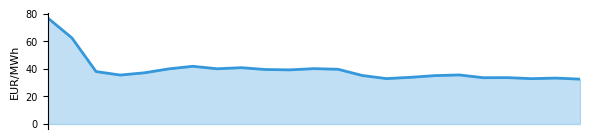
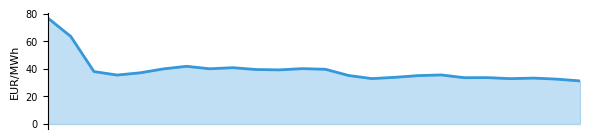
Update Gasspeicher-Report 2026-02-16 18:29

Changed region(s): [[0.1525, 0.4571, 1.0, 0.6], [0.122, 0.2857, 0.1525, 0.4571], [0.0915, 0.2, 0.122, 0.2571]]

diff --git a/index.html b/index.html
@@ -361,7 +361,7 @@ Berechnung auf Basis historischer Einspeiseraten 2012–2025. Vorgabe: EU-Verord
 <div class="card" style="grid-column: 1 / -1; margin-top: 1.5rem;">
 <h2 id="gasspeicher-tabelle">🏢 Gasspeicher Füllstand Tabelle – Betreiber & Speicher</h2>
 <div style="font-size: 0.75rem; color: #aaa; margin-bottom: 0.5rem;">
-24 Betreiber | Sortiert nach Kapazität | Hover für Speicher-Details
+25 Betreiber | Sortiert nach Kapazität | Hover für Speicher-Details
 </div>
 <div class="facility-matrix">
 <div class="facility-tile" style="background: rgba(243, 156, 18, 0.85);">
@@ -637,6 +637,19 @@ Kapazität: 2.0 TWh | Gespeichert: 0.5 TWh
 <div class="tile-bar"><div class="tile-bar-fill" style="width:26%"></div></div>
 <div class="tile-trend" style="color:#ccc">-0.92%/d</div>
 </div>
+<div class="facility-tile" style="background: rgba(241, 196, 15, 0.75);">
+<div class="tile-tooltip">
+<strong>Eneco Gasspeicher</strong><br>
+Füllstand: 44.6% | Trend: -0.10%/Tag<br>
+Kapazität: 1.4 TWh | Gespeichert: 0.6 TWh
+</div>
+<div class="trend-arrow" style="color:#e74c3c">▼</div>
+<div class="tile-name">Eneco Gasspeicher</div>
+<div class="tile-pct">45%</div>
+<div class="tile-capacity">1.4 TWh</div>
+<div class="tile-bar"><div class="tile-bar-fill" style="width:45%"></div></div>
+<div class="tile-trend" style="color:#ccc">-0.10%/d</div>
+</div>
 <div class="facility-tile" style="background: rgba(231, 76, 60, 0.85);">
 <div class="tile-tooltip">
 <strong>Enovos Storage</strong><br>
@@ -694,7 +707,7 @@ Kapazität: 0.6 TWh | Gespeichert: 0.3 TWh
 <!-- Europa-Link -->
 <div style="text-align: center; margin: 1rem 0;">
 <a href="europa.html" style="display: inline-block; padding: 0.75rem 2rem; background: linear-gradient(135deg, #2c3e6d, #1a5276); border: 1px solid rgba(79,195,247,0.3); border-radius: 10px; color: #fff; text-decoration: none; font-size: 1rem; font-weight: 600;">
-🇪🇺 Gasspeicher Füllstand Europa – Alle 21 Länder im Vergleich →
+🇪🇺 Gasspeicher Füllstand Europa – Alle 20 Länder im Vergleich →
 </a>
 </div>
 <!-- ============ ENERGIETRÄGER ============ -->
@@ -731,8 +744,8 @@ Günstigster: <strong style="color: #8B4513;">Holz (Buche)</strong> (4.8 ct/kWh)
 <div class="heating-row">
 <div class="heating-label">Erdgas</div>
 <div class="heating-bar-bg">
-<div class="heating-bar" style="width:92%;background:#3498db;">
-<span>8.2 ct</span>
+<div class="heating-bar" style="width:91%;background:#3498db;">
+<span>8.1 ct</span>
 </div>
 </div>
 <div class="heating-source">TTF live <span style="background:#27ae60;color:#fff;font-size:0.6rem;padding:1px 4px;border-radius:3px;margin-left:4px;">LIVE</span></div>
@@ -824,24 +837,24 @@ Endverbraucher-Näherung inkl. Steuern & Netzentgelte. Gas/Strom: Großhandel + 
 <!-- Diversifikations-Effekt -->
 <div class="card" style="margin-bottom: 1.5rem;">
 <h2>Diversifikations-Effekt: Was bringt ein zweiter Energieträger?</h2>
-<div style="font-size: 0.8rem; color: #aaa; margin-bottom: 0.5rem;">Szenario: Gaspreis steigt um 50% (von 8.2 auf 9.9 ct/kWh). Wintermonat, 2,500 kWh Heizbedarf.</div>
+<div style="font-size: 0.8rem; color: #aaa; margin-bottom: 0.5rem;">Szenario: Gaspreis steigt um 50% (von 8.1 auf 9.6 ct/kWh). Wintermonat, 2,500 kWh Heizbedarf.</div>
 <div class="diversification-compare">
 <div class="div-scenario mono">
 <div class="div-label"><strong>100% Gas</strong><br>Ein Energieträger</div>
-<div class="div-cost" style="color: #e74c3c;">+42 EUR</div>
+<div class="div-cost" style="color: #e74c3c;">+38 EUR</div>
 <div style="font-size: 0.8rem; color: #aaa;">Mehrkosten pro Monat</div>
 <div class="div-risk">
 <span style="color: #e74c3c;">Kein Ausweichen möglich</span><br>
-<span style="font-size: 0.75rem; color: #aaa;">Normal: 205 EUR → Krise: 248 EUR</span>
+<span style="font-size: 0.75rem; color: #aaa;">Normal: 202 EUR → Krise: 240 EUR</span>
 </div>
 </div>
 <div class="div-scenario hybrid">
 <div class="div-label"><strong>60% Gas + 40% Holz</strong><br>Zwei Energieträger</div>
-<div class="div-cost" style="color: #2ecc71;">+26 EUR</div>
+<div class="div-cost" style="color: #2ecc71;">+22 EUR</div>
 <div style="font-size: 0.8rem; color: #aaa;">Mehrkosten pro Monat</div>
 <div class="div-risk">
 <span style="color: #2ecc71;">40% weniger Preisrisiko</span><br>
-<span style="font-size: 0.75rem; color: #aaa;">Normal: 171 EUR → Krise: 196 EUR</span>
+<span style="font-size: 0.75rem; color: #aaa;">Normal: 170 EUR → Krise: 192 EUR</span>
 </div>
 </div>
 </div>
@@ -947,7 +960,7 @@ Endverbraucher-Näherung inkl. Steuern & Netzentgelte. Gas/Strom: Großhandel + 
 <h2>⚡ Strom- und Gaspreis im Großhandel</h2>
 <div class="spark-container">
 <div class="spark-item">
-<div class="value">32.5</div>
+<div class="value">30.8</div>
 <div class="label">Gas (EUR/MWh)</div>
 </div>
 <div class="spark-item">
@@ -955,7 +968,7 @@ Endverbraucher-Näherung inkl. Steuern & Netzentgelte. Gas/Strom: Großhandel + 
 <div class="label">Strom (EUR/MWh)</div>
 </div>
 <div class="spark-item">
-<div class="value spark-profitable">+52.5</div>
+<div class="value spark-profitable">+55.7</div>
 <div class="label">Spread (EUR/MWh)</div>
 </div>
 </div>
@@ -975,8 +988,8 @@ Quellen: Gas (TTF) | Strom (EPEX Spot (energy-charts.info))
 <div class="conv-label">Erdgas-Volumen</div>
 </div>
 <div class="conversion-item">
-<div class="conv-value">2.0 Mrd. €</div>
-<div class="conv-label">Marktwert (TTF: 32 €/MWh)</div>
+<div class="conv-value">1.8 Mrd. €</div>
+<div class="conv-label">Marktwert (TTF: 31 €/MWh)</div>
 </div>
 <div class="conversion-item">
 <div class="conv-value">424 Mio.</div>
